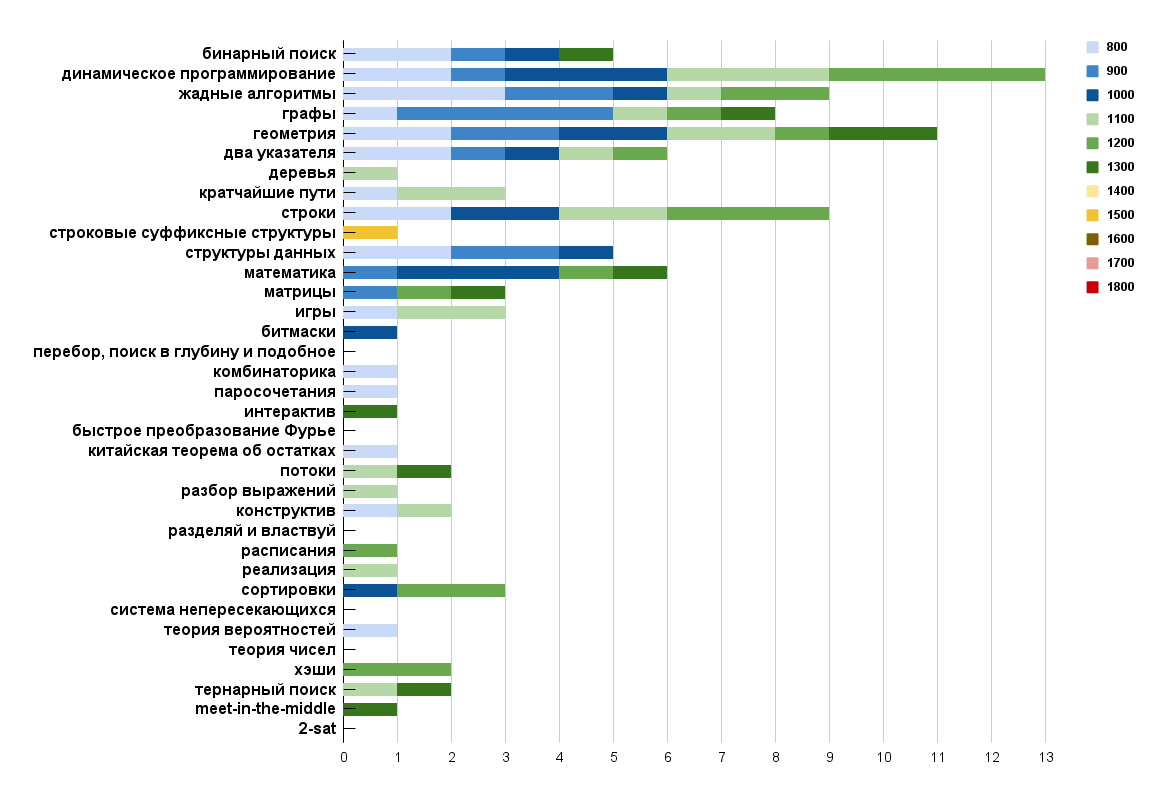
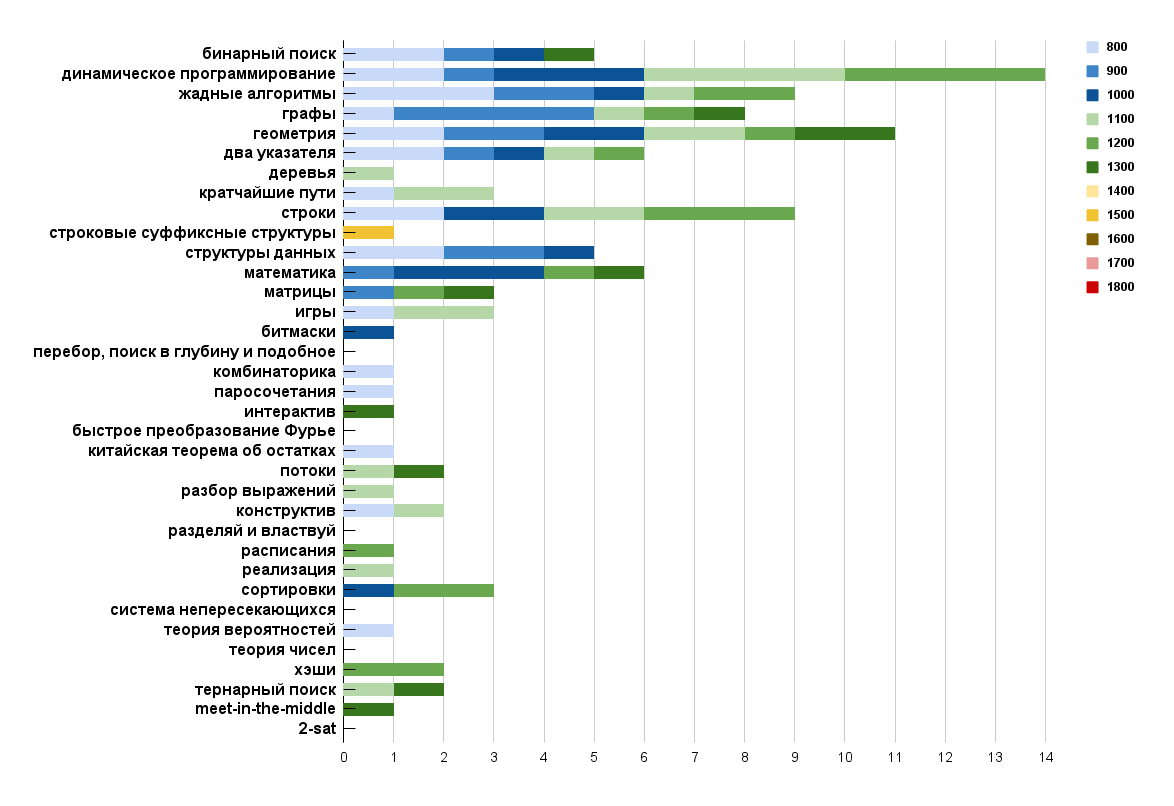
Almost solve 1100 in dp.

diff --git a/kotlin/CodeforcesArchive/src/main/kotlin/dp/compl_1100/1923B_Monsters_attack.kt b/kotlin/CodeforcesArchive/src/main/kotlin/dp/compl_1100/1923B_Monsters_attack.kt
@@ -1,0 +1,22 @@
+package dp.compl_1100
+
+fun main(){
+    val T = readln().toInt()
+    repeat(T){
+        val (nLong, k) = readln().split(" ").map { it.toLong() }
+        val n = nLong.toInt()
+        val a = readln().split(" ").map { it.toLong() }
+        val x = readln().split(" ").map { it.toInt() }
+        val sumHealth = LongArray(n + 1)
+        var curRemainingBullets = 0L
+        var isAlive = true
+        for (i in 0..<n){
+            sumHealth[kotlin.math.abs(x[i])] += a[i]
+        }
+        for (i in 1..n){
+            curRemainingBullets += k - sumHealth[i]
+            isAlive = isAlive && (curRemainingBullets >= 0)
+        }
+        println(if (isAlive) "YES" else "NO")
+    }
+}

diff --git a/kotlin/LeetCode/src/main/kotlin/top_interview_150/linked_list/meduim/92_Reverse_linked_list_II.kt b/kotlin/LeetCode/src/main/kotlin/top_interview_150/linked_list/meduim/92_Reverse_linked_list_II.kt
@@ -11,7 +11,7 @@ class Solution92 {
         val firstHalfOfList = mutableListOf<ListNode92>()
         var curInd = 1
         val middleInd = (right + left) / 2
-        var curNode = head
+            var curNode = head
         while (curInd < left){
             curNode = curNode!!.next
             ++curInd
